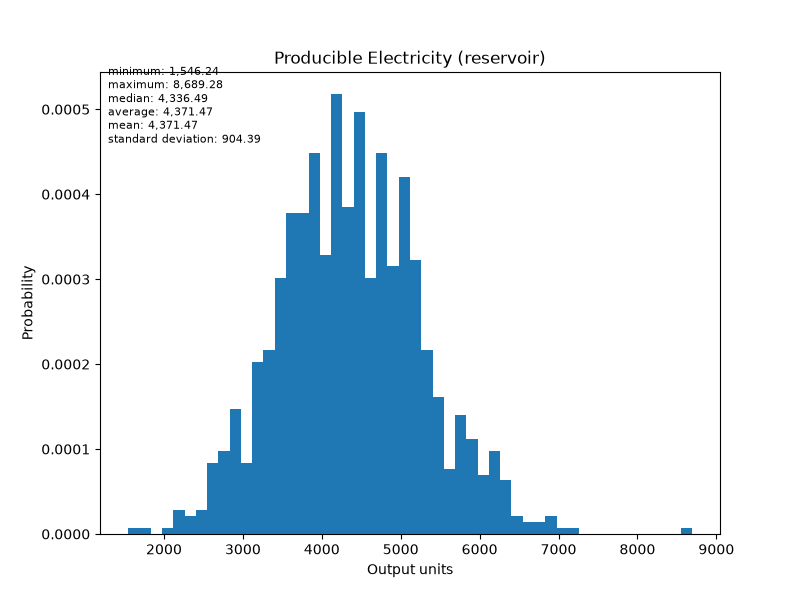
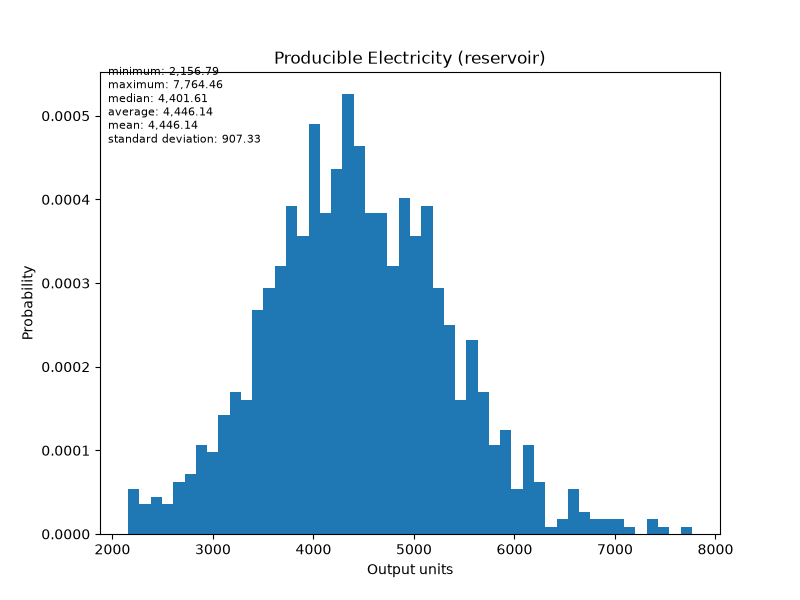
Compute agreement figures and fix the rendered parameters table (#509)
The agreement tolerances were written into the prose as 0.5% and 1%. The Monte
Carlo is unseeded, so its mean moves between builds, and the published page
already showed 62,584 against the filing's 63,560 while the text still claimed
agreement within 1%. All three tolerances are now computed from the run against
the filing's published Low and Mean estimates, so they cannot go stale.

Three rendering defects in the parameters table, visible on the published page:
an ampersand in a comment reached the page as an HTML entity, the Reservoir
Area comment was truncated mid-sentence because the table builder splits
comments on commas, and Recoverable Heat from Rock was absent altogether
because parameters without comments are omitted - despite the surrounding text
explaining that it is overridden to 1.0. Comments rewritten accordingly, and
the recovery parameters given comments so they appear.

Also replaces literal em dash entities in the economic potential table.

diff --git a/src/geophires_docs/generate_fpc_hiip_analysis_doc.py b/src/geophires_docs/generate_fpc_hiip_analysis_doc.py
@@ -105,6 +105,11 @@ def generate_fpc_hiip_analysis_doc():
     dm_mean_elec_mw = 14005
     dm_elec_ratio = dm_mean_elec_mw / rec_elec_mw
 
+    # D&M Gross HIIP, 10^15 J. Agreement is computed rather than written into the
+    # prose: the Monte Carlo is unseeded, so its mean moves between builds.
+    dm_low_hiip_15j = 50730
+    dm_mean_hiip_15j = 63560
+
     # Headline economics of a modelled development at Cape Station, read from the
     # committed example output. A volumetric assessment has no levelised cost;
     # cost belongs to a project, and this is the project GEOPHIRES models.
@@ -193,6 +198,8 @@ def generate_fpc_hiip_analysis_doc():
         'rec_estimate_scenario': rec_estimate_scenario,
         'rec_cumulative_category': rec_cumulative_category,
         'dm_elec_ratio': f'{dm_elec_ratio:,.1f}',
+        'det_agreement_pct': f'{abs(det_stored_heat_15j - dm_low_hiip_15j) / dm_low_hiip_15j * 100:,.1f}',
+        'mc_agreement_pct': f'{abs(mc_stored_heat_mean_15j - dm_mean_hiip_15j) / dm_mean_hiip_15j * 100:,.1f}',
         'fpc5_elec_mw': f'{fpc5_elec_mw:,.0f}',
         'fpc5_breakeven': f'{fpc5_breakeven:,.2f}',
         'fpc5_capex_musd': f'{fpc5_capex_musd:,.0f}',
